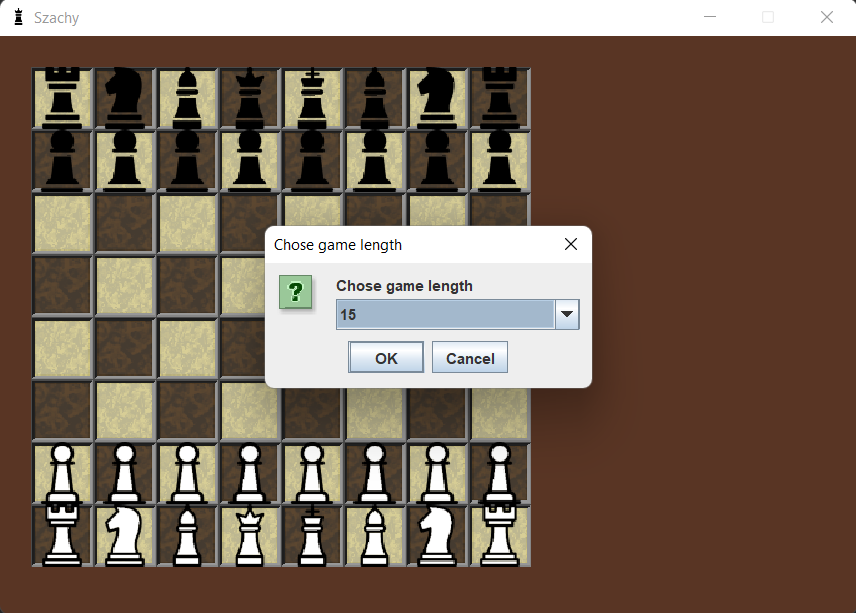
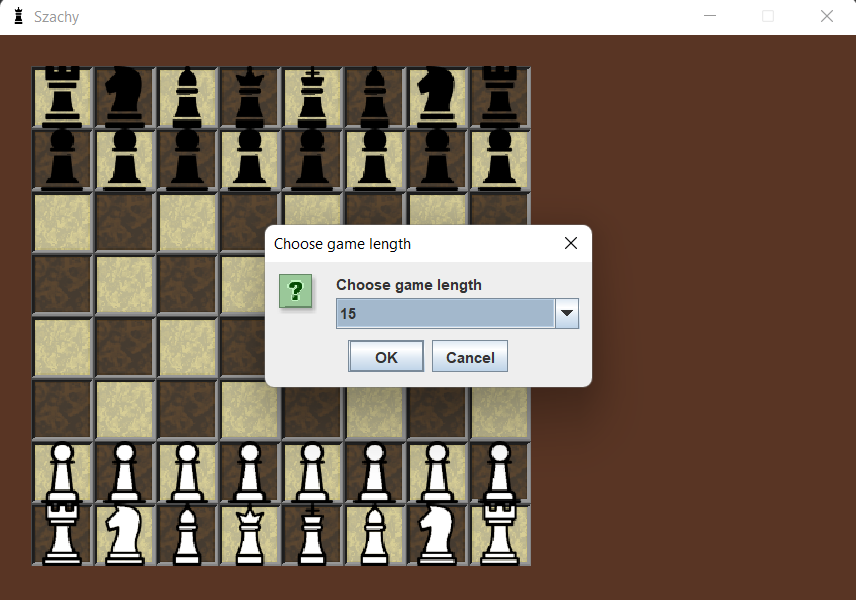
Modified little mistake

diff --git a/src/com/company/Frontend/View.java b/src/com/company/Frontend/View.java
@@ -152,8 +152,8 @@ public class View {
 
         String input = (String) optionPane.showInputDialog(
                 null,
-                "Chose game length",
-                "Chose game length",
+                "Choose game length",
+                "Choose game length",
                 JOptionPane.QUESTION_MESSAGE,
                 null,
                 choices,
